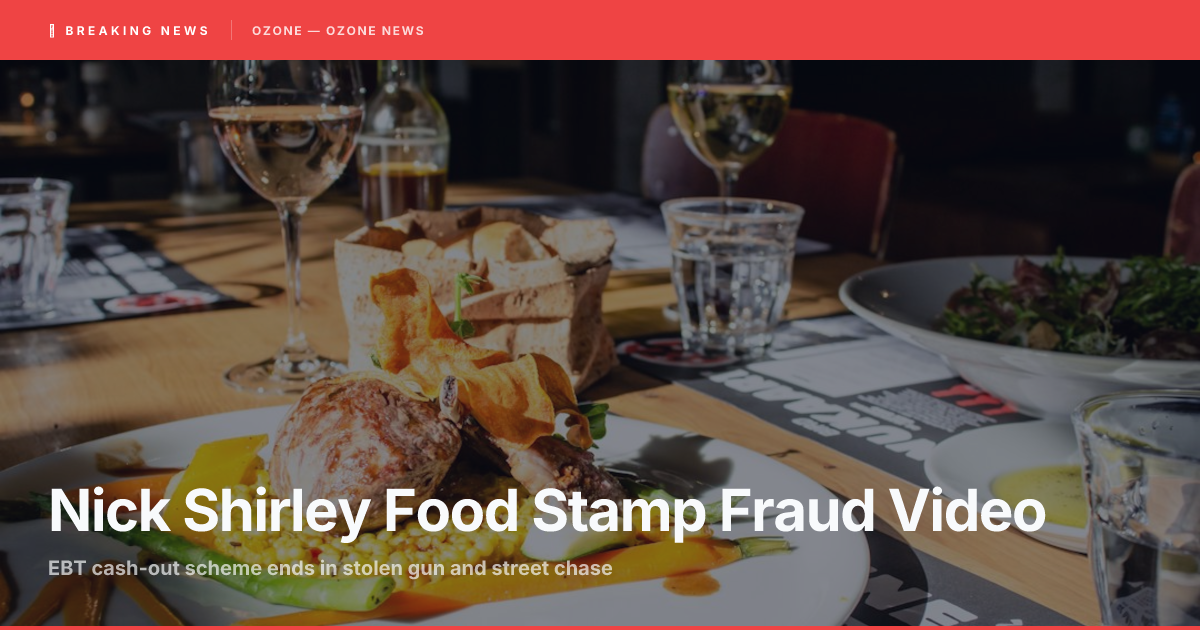
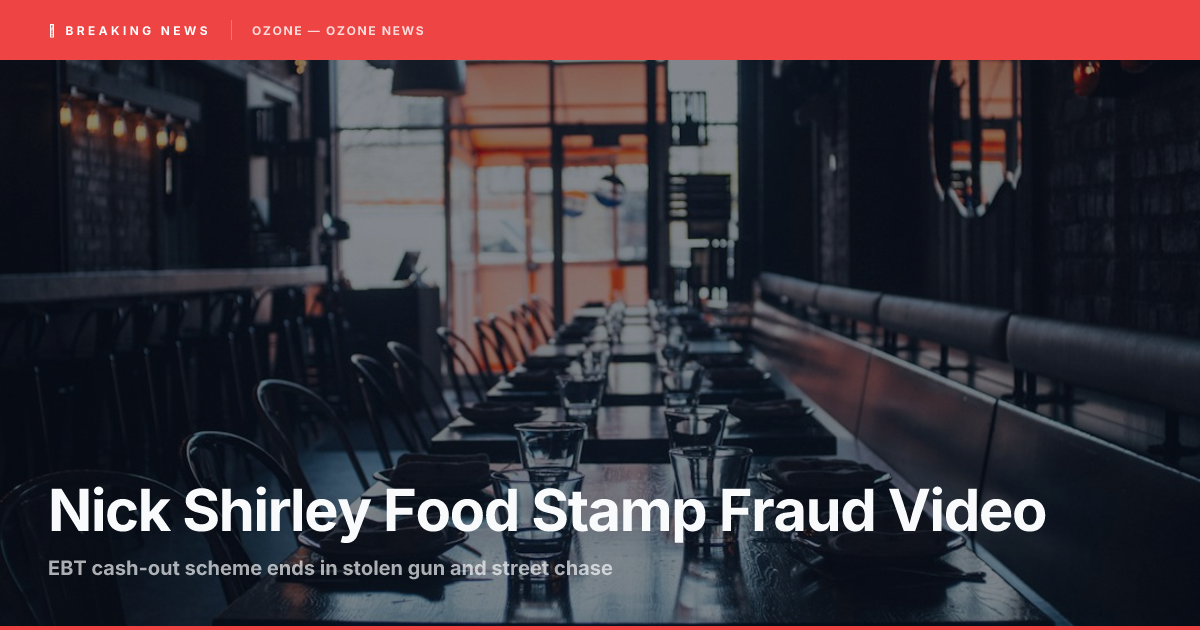
Embed Nick Shirley food stamp fraud YouTube video and re-mint thumbnail from video frame

diff --git a/app/local/us-news/nick-shirley-food-stamp-fraud-video/page.tsx b/app/local/us-news/nick-shirley-food-stamp-fraud-video/page.tsx
@@ -9,6 +9,7 @@ export const revalidate = 86400;
 const SLUG = '/local/us-news/nick-shirley-food-stamp-fraud-video';
 const ARTICLE_URL = `https://www.objectivewire.org${SLUG}`;
 const OG_IMAGE = `https://www.objectivewire.org/thumbnails/local-us-news-nick-shirley-food-stamp-fraud-video.jpg`;
+const VIDEO_ID = 'dh6gOzLUHWM';
 
 export const metadata: Metadata = {
   title: 'Nick Shirley Food Stamp Fraud Video | EBT Cash-Out Scheme Ends in Stolen Gun',
@@ -140,6 +141,30 @@ export default function NickShirleyFoodStampFraudPage() {
           <p>
             "This is arguably one of the most dangerous situations I've ever been in," one of Shirley's security personnel admitted as the crew sped away from a gathering crowd. Beyond the dramatic street chase, Shirley's footage highlights a pervasive, highly lucrative fraud scheme operating at the intersection of retail loopholes, illegal cash discounting, and the urban drug crisis.
           </p>
+
+          {/* ── Nick Shirley Investigation Video ── */}
+          <div className="my-8 not-prose">
+            <div className="relative w-full" style={{ paddingBottom: '56.25%' }}>
+              <iframe
+                className="absolute inset-0 w-full h-full rounded-xl shadow-lg"
+                src={`https://www.youtube.com/embed/${VIDEO_ID}?rel=0&modestbranding=1`}
+                title="Nick Shirley Food Stamp Fraud Investigation | EBT Cash-Out Scheme Ends in Stolen Gun"
+                allow="accelerometer; autoplay; clipboard-write; encrypted-media; gyroscope; picture-in-picture"
+                allowFullScreen
+              />
+            </div>
+            <p className="text-xs text-gray-500 mt-2 text-center">
+              Nick Shirley's full investigation via{' '}
+              <a
+                href={`https://www.youtube.com/watch?v=${VIDEO_ID}`}
+                target="_blank"
+                rel="noopener noreferrer"
+                className="text-blue-600 hover:text-blue-800 underline"
+              >
+                YouTube
+              </a>
+            </p>
+          </div>
 
           <h2>How the Fraud Works | The EBT Cash-Out Mechanics</h2>
 
